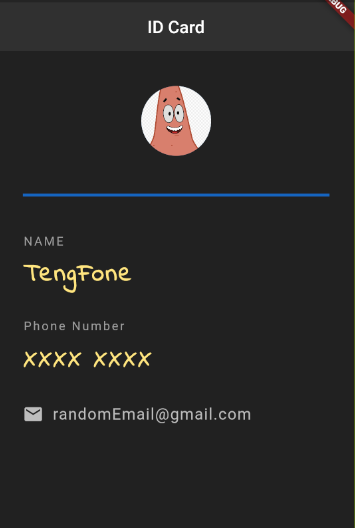
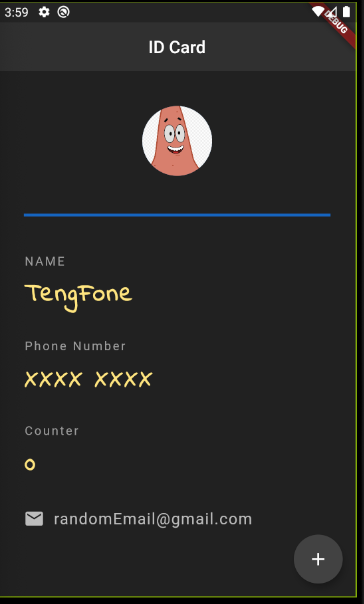
First Sample ID Card Flutter App with Stateful Widget

diff --git a/lib/main.dart b/lib/main.dart
@@ -4,7 +4,15 @@ void main() => runApp(MaterialApp(
   home: IDCard(),
 ));
 
-class IDCard extends StatelessWidget {
+class IDCard extends StatefulWidget {
+  @override
+  _IDCardState createState() => _IDCardState();
+}
+
+class _IDCardState extends State<IDCard> {
+
+  int counter = 0;
+
   @override
   Widget build(BuildContext context) {
     return Scaffold(
@@ -14,6 +22,16 @@ class IDCard extends StatelessWidget {
         centerTitle: true,
         backgroundColor: Colors.grey[850],
         elevation: 0,
+      ),
+      // Increment Button
+      floatingActionButton: FloatingActionButton(
+        onPressed: (){
+          setState(() {
+            counter++;
+          });
+        },
+        child: Icon(Icons.add),
+        backgroundColor: Colors.grey[800],
       ),
       body: Padding(
         padding: EdgeInsets.fromLTRB(30,40,30,0),
@@ -60,6 +78,25 @@ class IDCard extends StatelessWidget {
             SizedBox(height: 10.0),
             Text(
               "XXXX XXXX",
+              style: TextStyle(
+                color: Colors.amberAccent[100],
+                letterSpacing:  2.0,
+                fontFamily: 'customFont',
+                fontSize: 28.0,
+                fontWeight: FontWeight.bold,
+              ),
+            ),
+            SizedBox(height: 30.0),
+            Text(
+                "Counter",
+                style: TextStyle(
+                  color: Colors.grey,
+                  letterSpacing:  2.0,
+                )
+            ),
+            SizedBox(height: 10.0),
+            Text(
+              "$counter",
               style: TextStyle(
                 color: Colors.amberAccent[100],
                 letterSpacing:  2.0,

diff --git a/README.md b/README.md
@@ -1,5 +1,3 @@
-# Sample Flutter ID Card App
-
-A new Flutter application.
+# Sample Flutter ID Card App with State Widget
 
 ![sample_app](./assets/sample_idcard.png)
